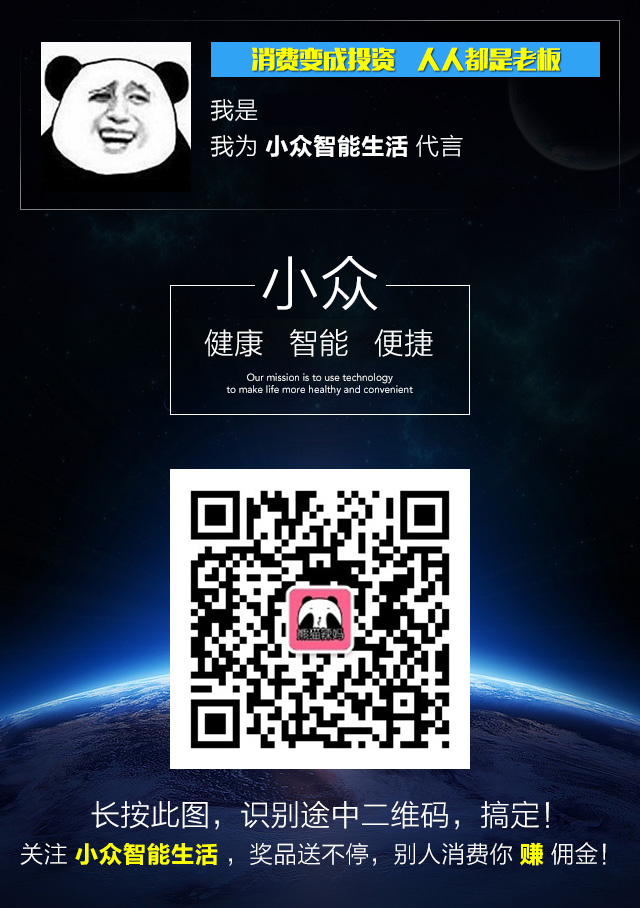
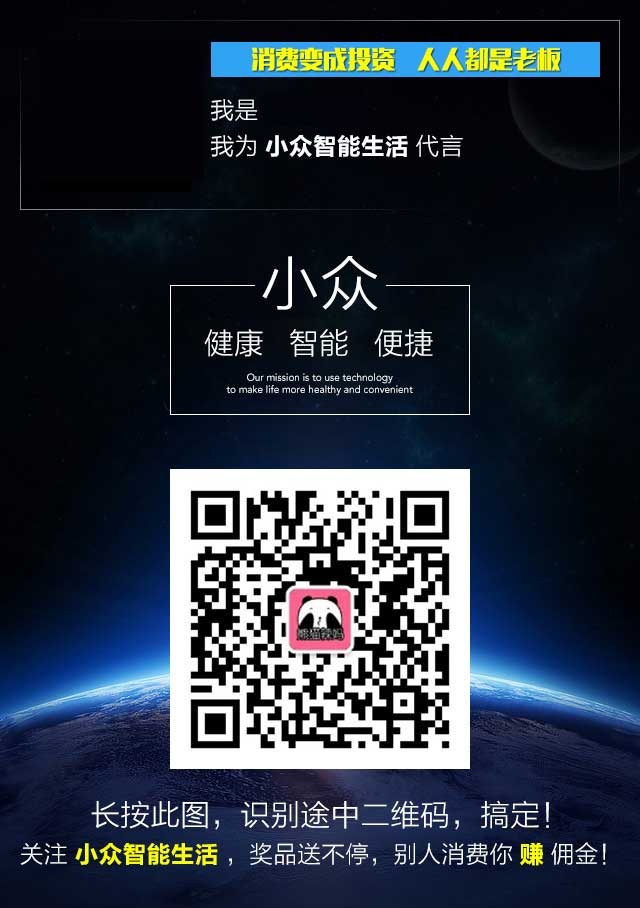
update

diff --git a/Application/Shop/View/default/TestComm/index.html b/Application/Shop/View/default/TestComm/index.html
@@ -116,23 +116,12 @@
 
 	<body>
 		
-		<empty name="userinfo">
-			<div>
-				无法获取您的信息，请使用微信打开！
-			</div>
-			<else/>
 			<div style="width:100%">
 				
 				<div class="body">
-					<a  href="{:U('Shop/Index/buy',array('pid'=>1))}" >
-						<img class="img-responsive " style="display: block;"  src="__IMG__/demo/640_1.jpg" alt="图片" />
-					</a>
-					<a  href="{:U('Shop/Index/buy',array('pid'=>1))}" >
-						<img class="img-responsive " style="display: block;"  src="__IMG__/demo/640_2.jpg" alt="图片" />
-					</a>
-					<for start="3" end="9">
+					<for start="1" end="9">
 						<a  href="{:U('Shop/Index/buy',array('pid'=>1))}" >
-							<img class="img-responsive lazy" style="display: block;"  src="__CDN__/common/loading-1.gif" data-original="__IMG__/demo/640_{$i}.jpg" alt="图片" />
+							<img class="img-responsive lazy"  src="__CDN__/common/loading-1.gif" data-original="__IMG__/demo/640_{$i}.jpg" alt="图片" />
 						</a>
 					</for>
 				</div>
@@ -151,7 +140,6 @@
 					</div>
 				</div>
 			</div>
-		</empty>
 		<!-- 微信分享内容-->
 		<input type="hidden" id="wxshareTitle" value="加入我们" />
 		<input type="hidden" id="wxshareLink" value="{$shareUrl}" />

diff --git a/Application/Common/Api/PromotioncodeApi.class.php b/Application/Common/Api/PromotioncodeApi.class.php
@@ -47,9 +47,10 @@ class PromotioncodeApi {
 	}
 	/**
 	 * @param $data 通常包含是微信服务器返回来的信息
+	 * @param $regenerate 重新生成
 	 * @return 返回 Wechat可处理的数组
 	 */
-	function process($appid,$appsecret,$fans){
+	function process($appid,$appsecret,$fans,$regenerate=false){
 		
 		//检测是否有权限生成二维码
 		if(!$this->hasAuthorized($fans)){
@@ -66,11 +67,12 @@ class PromotioncodeApi {
 			return array('status'=>false,'info'=>'获取失败，请重试！');
 		}
 		//
-		$realfile = $this->getPublicityPicture($fans,$relativefile);
+		$realfile = $this->getPublicityPicture($fans,$relativefile,$regenerate);
 //		addWeixinLog($realfile,"推广二维码[realfile]");
 		
 		$media_id = S("PromotioncodePlugin_".$fans['id']);
-		if(empty($media_id)){
+		
+		if(empty($media_id) && $regenerate === false){
 			$media_id = $this -> wxapi->uploadMaterial($realfile);
 			if($media_id['status']){
 				$media_id = $media_id['msg']->media_id;
@@ -87,7 +89,7 @@ class PromotioncodeApi {
 	 * 生成更完善效果的带推广二维码的宣传图片
 	 * TODO:生成宣传图片
 	 */
-	private function getPublicityPicture($fans,$relativefile){
+	private function getPublicityPicture($fans,$relativefile,$regenerate=false){
 		$nickname = $fans['nickname'];//昵称
 		$avatar = $fans['avatar'];
 		$brandName = C('BRAND_NAME');//品牌名称
@@ -97,33 +99,30 @@ class PromotioncodeApi {
 		$tmppath = realpath($this->config['tmpFolder']) . '/';
 		
 		$savefilename = $this->config['mergeFolder'] .'/qrcode_uid'.$fans['id'] . ".jpg";
+		
+		if(file_exists(realpath($savefilename)) && $regenerate === false){
+			//取缓存的
+			return realpath($savefilename);	
+		}
+		
 		//TODO: 判断是否已生成过，是则返回
 		//需要合成的图片
 		$arr = array( 
 			array("resource" => $avatar, 
-		"isremote" => true, "x" => 180, "y" => 70, "w" => 70, "h" => 70, 'type' => 'image'), 
+		"isremote" => true, "x" => 45, "y" => 45, "w" => 150, "h" => 150, 'type' => 'image'), 
 			array("resource" => $relativefile, 
-			"isremote" => false, "x" => 205, "y" => 545, "w" => 240, "h" => 240, 'type' => 'image'), 
-			array("resource" => $avatar, 
-		"isremote" => true, "x" => 300, "y" => 640, "w" => 45, "h" => 45, 'type' => 'image'), 
+			"isremote" => false, "x" => 175, "y" => 470, "w" => 295, "h" => 295, 'type' => 'image'), 
+//			array("resource" => $avatar, 
+//		"isremote" => true, "x" => 280, "y" => 570, "w" => 45, "h" => 45, 'type' => 'image'), 
 			array("resource" => $nickname, 					
-					"x" => 322, 
-					"y" => 94, 
+					"x" => 262, 
+					"y" => 115, 
 					'type' => 'text',
 					'font'=>realpath('./Public/cdn/fonts/daheiti.ttf'),
 					'size'=>15,
 					'angle'=>0,
-					'color'=>array(255,255,155),
+					'color'=>array(255,255,133),
 				),
-			array("resource" => $brandName, 					
-				"x" => 325, 
-				"y" => 125, 
-				'type' => 'text',
-				'font'=>realpath('./Public/cdn/fonts/daheiti.ttf'),
-				'size'=>14,
-				'angle'=>0,
-				'color'=>array(255,255,155),
-			),
 		 );
 		
 //		addWeixinLog("2","推广二维码");

diff --git a/Application/Common/Conf/config.php b/Application/Common/Conf/config.php
@@ -55,14 +55,14 @@ return array(
         'AUTH_USER' => 'common_members'//用户信息表
     ),
     'WXPAY_CONFIG'=>array(
-		'appid'=>'wx58aea38c0796394d',
-		'appsecret'=>'3e1404c970566df55d7314ecfe9ff437',
-		'mchid'=>'10027619',
+		'appid'=>'wxada061ce2bd7f2c5',
+		'appsecret'=>'0ce79e8ba1ecd7863d0a913fa45b11f9',
+		'mchid'=>'1234849002',
 		'notifyurl'=>'http://20150508.itboye.com/index.php/Shop/WxpayNotify/index',
-		'key'=>'755c9713b729cd82467ac592ded397ee',//在微信发送的邮件中查看,patenerkey
+		'key'=>'4EB050612582E9637C5E3FF497DCD8D9',//在微信发送的邮件中查看,patenerkey
 		'jsapicallurl'=>'http://20150508.itboye.com/index.php/Shop/Orders/pay?showwxpaytitle=1',
-		'sslcertpath'=>'/alidata/8rawcert/10027619/apiclient_cert.pem',
-		'sslkeypath'=>'/alidata/8rawcert/10027619/apiclient_cert.pem',
+		'sslcertpath'=>'',
+		'sslkeypath'=>'',
 	),
 	'PROMOTIONCODE'=>array(
 		'defaultQrcode'=>'./Uploads/QrcodeMerge/qrcode_default.jpg',

diff --git a/Application/Shop/Controller/ShopController.class.php b/Application/Shop/Controller/ShopController.class.php
@@ -33,6 +33,8 @@ class ShopController extends  Controller {
 		C('SHOW_PAGE_TRACE', false);//设置不显示trace
 		$this -> refreshWxaccount();
 		$url = $this->getCurrentURL();
+		
+		
 		if(!is_null($this->getWxuser($url))){
 			
 			if($this->hasSubscribe == 0){
@@ -59,6 +61,9 @@ class ShopController extends  Controller {
 		}
 		$this->pageview();
 	}
+	
+	
+	
 	
 	private function pageview(){
 		//TODO: 
@@ -166,6 +171,10 @@ class ShopController extends  Controller {
 			session("shop_token", $this->token);
 		} elseif (session("?shop_token")) {
 			$this->token = session("shop_token");
+		}
+		
+		if(empty($this->token)){
+			$this->token = C("SHOP_TOKEN");
 		}
 		
 		$result = apiCall('Weixin/Wxaccount/getInfo', array( array('token' => $this->token)));

diff --git a/Application/Shop/Controller/IndexController.class.php b/Application/Shop/Controller/IndexController.class.php
@@ -244,7 +244,7 @@ class IndexController extends ShopController {
 			if(!	$hasright){
 				$qrcode = __ROOT__."/Uploads/QrcodeMerge/qrcode_default.jpg";
 			}else{
-				$qrcode = "./Uploads/QrcodeMerge/qrcode_uid".$userinfo['id'].".jpg";
+				$qrcode = "./Uploads/QrcodeMerge/qrcode_uid".$userinfo['id'].".jpg?v=".time();
 				if(!file_exists($qrcode)){
 					
 					$promotionapi = new \Common\Api\PromotioncodeApi(C('PROMOTIONCODE'));
@@ -256,7 +256,7 @@ class IndexController extends ShopController {
 					}
 
 				}
-				$qrcode = __ROOT__."/Uploads/QrcodeMerge/qrcode_uid".$userinfo['id'].".jpg";
+				$qrcode = __ROOT__."/Uploads/QrcodeMerge/qrcode_uid".$userinfo['id'].".jpg?v=".time();
 			}
 			$this->assign("qrcode",$qrcode);
 			$this->display();

diff --git a/Application/Weixin/Controller/ConnectController.class.php b/Application/Weixin/Controller/ConnectController.class.php
@@ -222,7 +222,15 @@ class ConnectController extends WeixinController {
 				addWeixinLog($this->getPluginParams(),"[Promotioncode]");
 				$return = pluginCall($this->Plugins['_promotioncode_'],array($this->getPluginParams()));
 				
+				addWeixinLog($return,"[Promotioncode return]");
 //				$return = pluginCall("Promotioncode",array($this->getPluginParams()));
+				break;
+			case 'regenerate_qrcode' :
+				addWeixinLog('重新生成二维码',"[Promotioncode]");
+				$params = $this->getPluginParams();
+				$params['regenerate'] = true;
+				$return = pluginCall($this->Plugins['_promotioncode_'],array($params));
+				
 				break;
 			default :
 				//TODO: 可以检测用户请求数

diff --git a/Application/Shop/Controller/TestCommController.class.php b/Application/Shop/Controller/TestCommController.class.php
@@ -26,6 +26,11 @@ class TestCommController extends  Controller{
 		}
 	}
 	
+	public function testImage(){
+		
+		$this->display("index");
+	}
+	
 	public function testAdded(){
 		$wxaccount_id = "1"; 
 		$percent = C('COMMISSION_RATIO');

diff --git a/Application/Shop/Conf/config.php b/Application/Shop/Conf/config.php
@@ -16,5 +16,5 @@ return array(
     'DB_PREFIX'                 =>  'cjfx_',
     
 	'SHOW_PAGE_TRACE'=>false,
-	
+	'SHOP_TOKEN'=>'aestpjof1431088862',
 );
